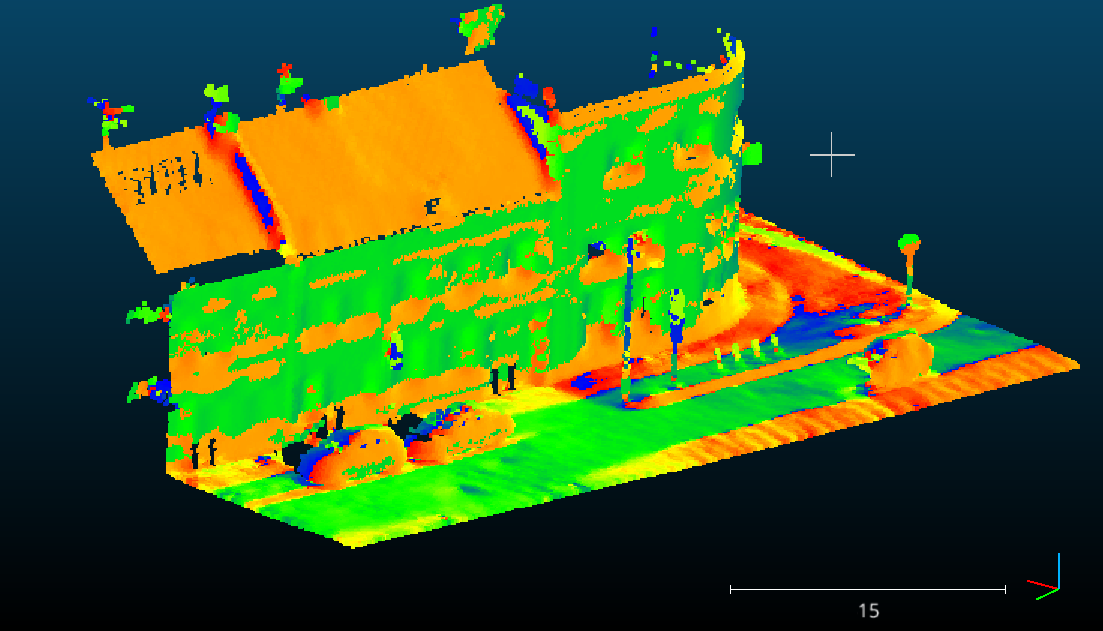
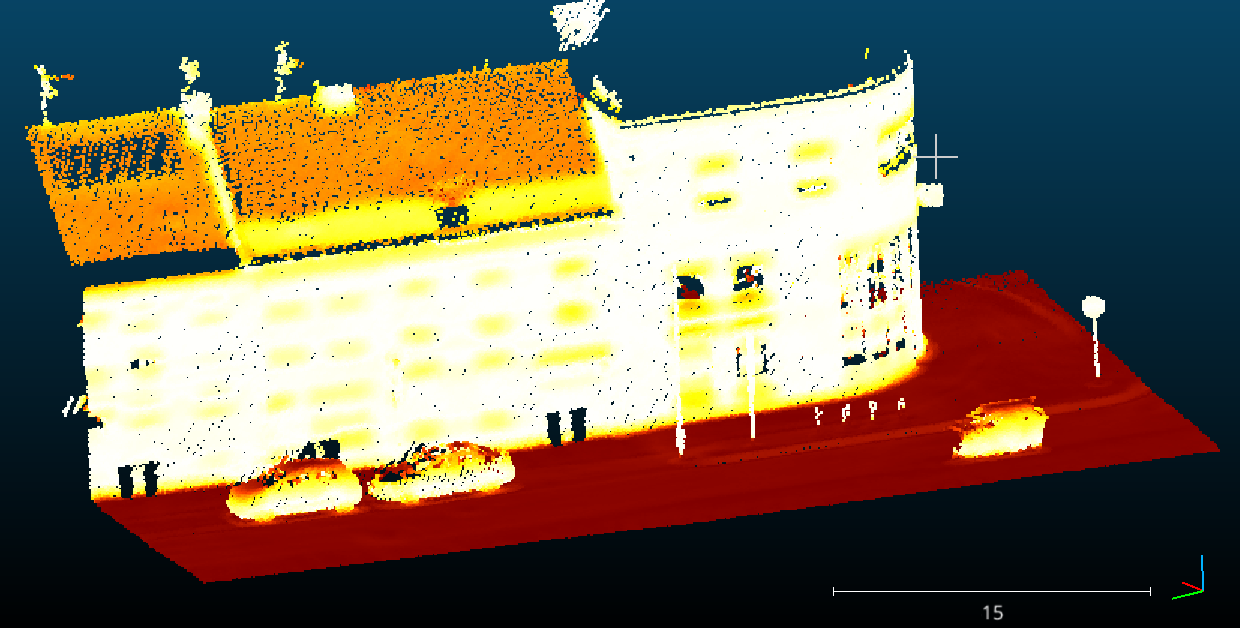
#3 TP-3 fix DIP colors

diff --git a/TP3_materials/report/TP3_report.tex b/TP3_materials/report/TP3_report.tex
@@ -28,12 +28,15 @@
   \includegraphics[width=0.3\linewidth]{figures/cc_normals_10cm.png}
   \includegraphics[width=0.3\linewidth]{figures/cc_normals_50cm.png}
   \includegraphics[width=0.3\linewidth]{figures/cc_normals_2m.png}
-  
+  \includegraphics[width=0.3\linewidth]{figures/cc_normals_10cm_stopsign.png}
+  \includegraphics[width=0.3\linewidth]{figures/cc_normals_50cm_stopsign.png}
+  \includegraphics[width=0.3\linewidth]{figures/cc_normals_2m_stopsign.png}
   \caption{From left to right: 10cm, 50cm, 2m radiuses used to compute normals}
   \label{fig:cc_normals}
 \end{figure}
 If the neighborhood radius is too small, we get noisy normals.
 If the neighborhood radius is too large, we get smoothed normals (makes edges curvy).
+Stop sign normals are not recovered correctly (considered like a horizontal plane like the ground around it) when radius is too big.
 
 
 \section*{Question 2}
